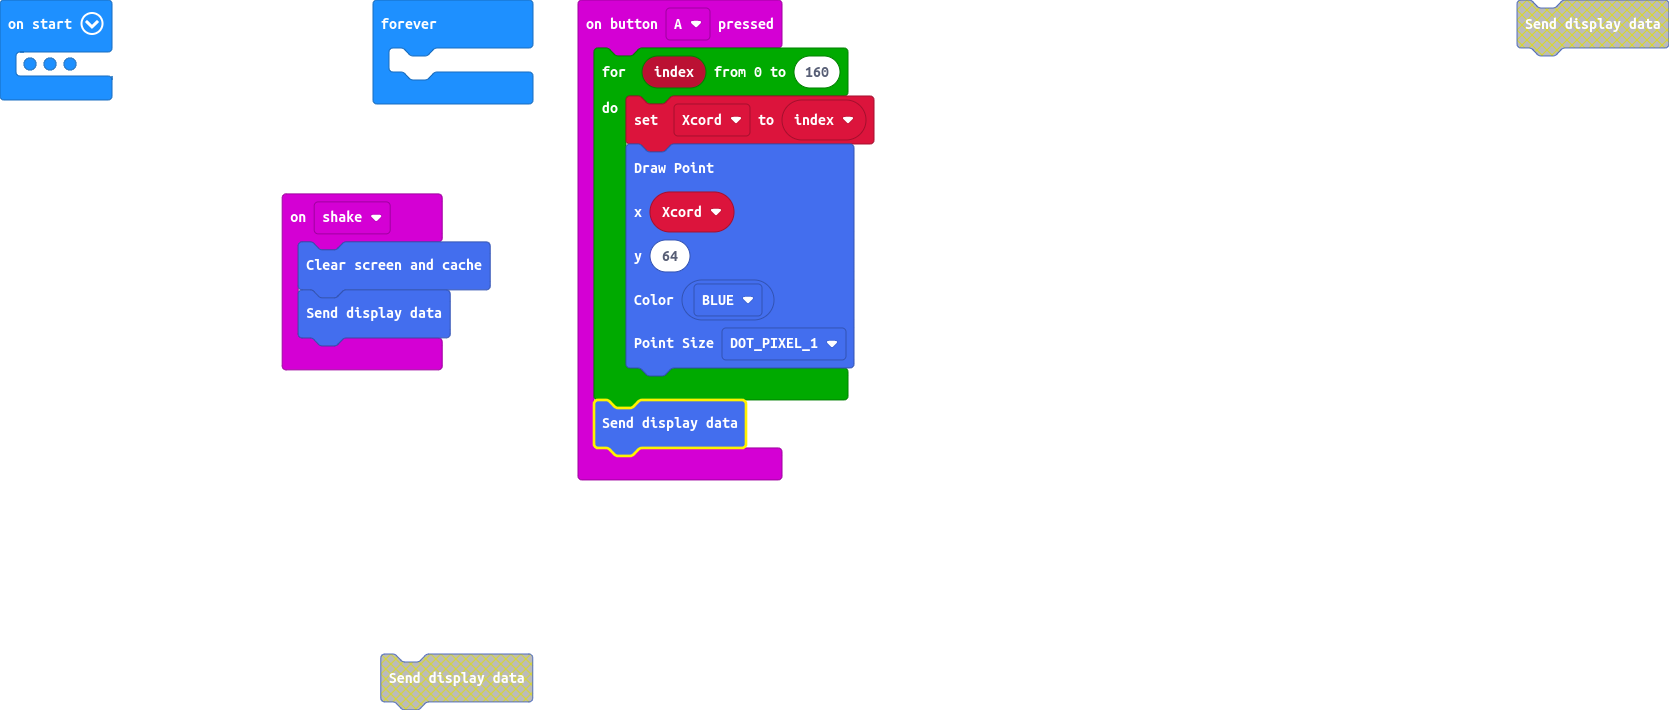
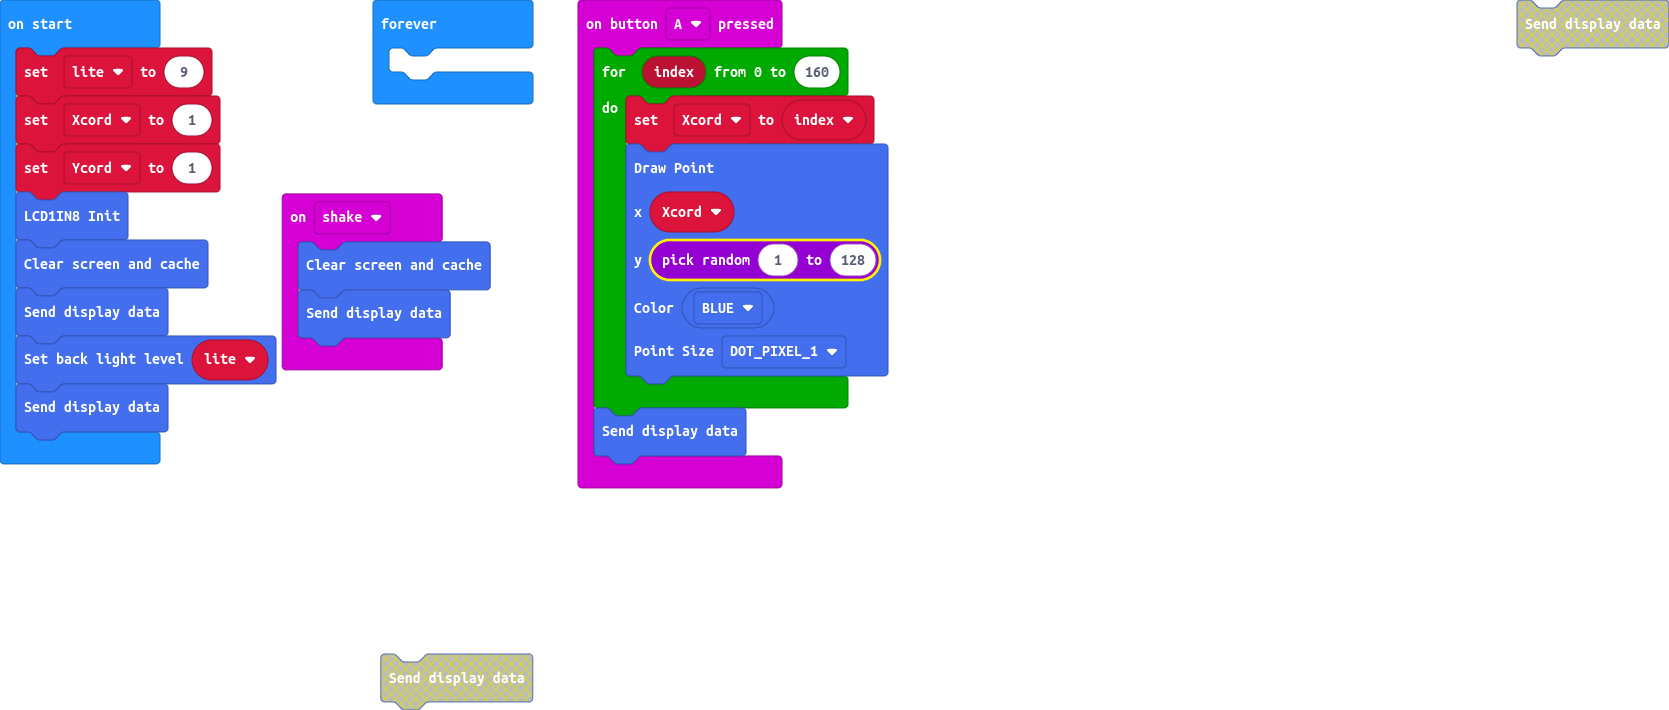
random ycord for plot

Changed region(s): [[0.0, 0.0, 0.1869, 0.6817], [0.3427, 0.1859, 0.5297, 0.7127]]

diff --git a/main.ts b/main.ts
@@ -3,7 +3,7 @@ input.onButtonPressed(Button.A, function () {
         Xcord = index
         LCD1IN8.DrawPoint(
         Xcord,
-        64,
+        randint(1, 128),
         LCD1IN8.Get_Color(LCD_COLOR.BLUE),
         DOT_PIXEL.DOT_PIXEL_1
         )
@@ -15,7 +15,7 @@ input.onGesture(Gesture.Shake, function () {
     LCD1IN8.LCD_Display()
 })
 let Xcord = 0
-let lite = 32
+let lite = 9
 Xcord = 1
 let Ycord = 1
 LCD1IN8.LCD_Init()
